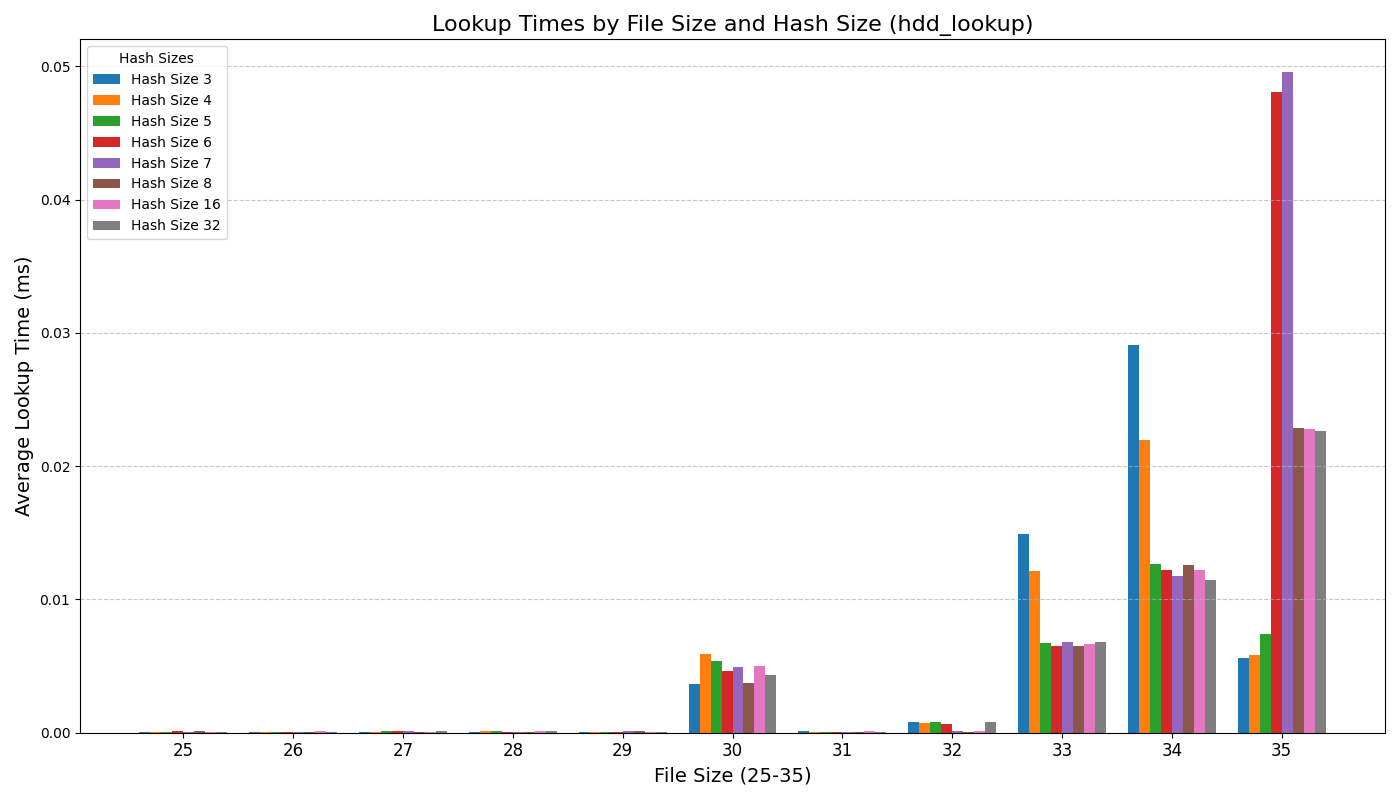
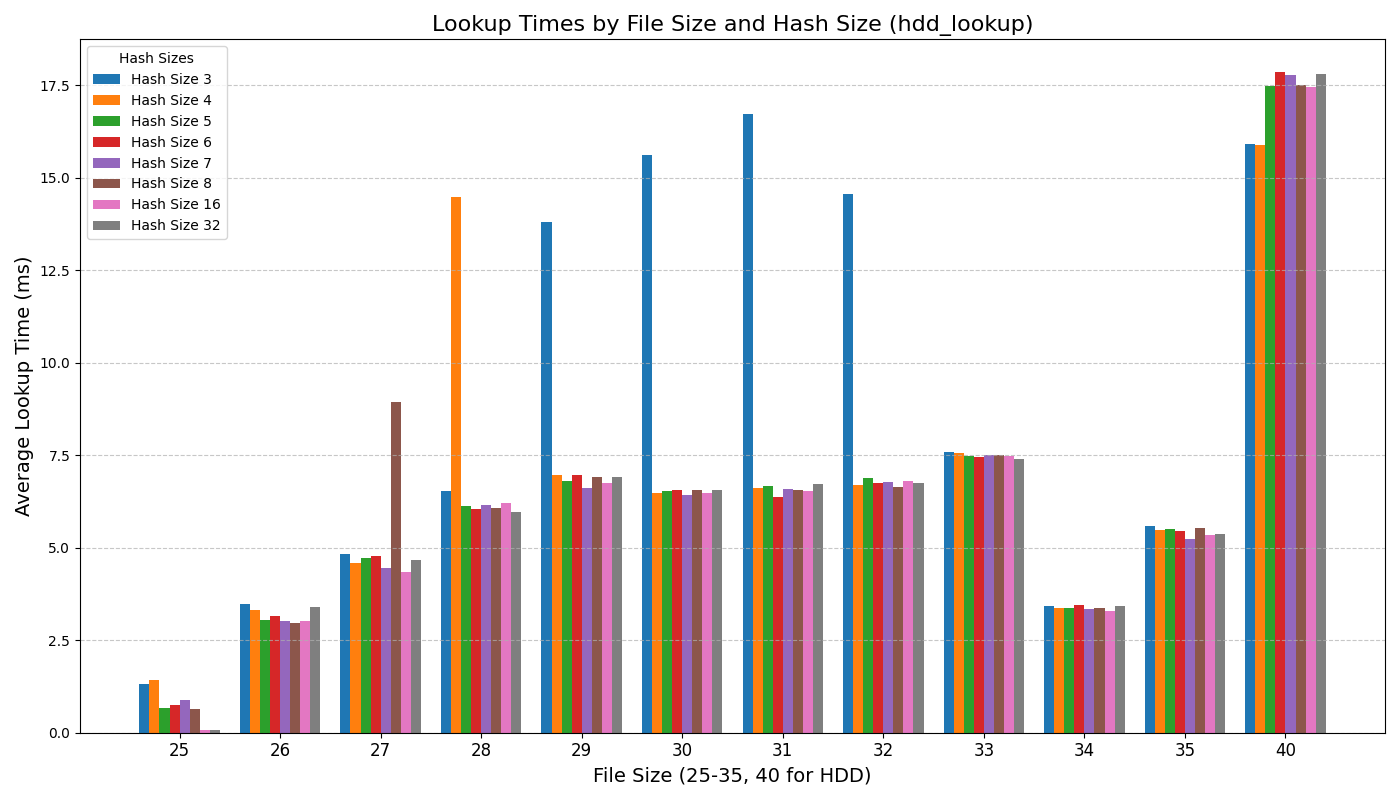
script to graph and graphs

diff --git a/graph_lookup_times.py b/graph_lookup_times.py
@@ -5,33 +5,55 @@ import numpy as np
 
 # Define directories and files
 folders = ['hdd_lookup', 'nvme_lookup']
-file_range = range(25, 36)  # lookup_times#.csv where # ranges from 25 to 35
+file_range_hdd = range(25, 36)  # For HDD, lookup_times#.csv where # ranges from 25 to 35
+file_range_nvme = range(25, 36)  # For NVMe, lookup_times#.csv where # ranges from 25 to 35
+file_range_hdd_extra = [40]  # Only for HDD, we need to include file 40
 hash_sizes = [3, 4, 5, 6, 7, 8, 16, 32]
 
 # Dictionary to hold all data
-data = {folder: {file_id: {size: [] for size in hash_sizes} for file_id in file_range} for folder in folders}
+data = {folder: {} for folder in folders}
 
 # Read data from CSV files
 for folder in folders:
+    # Determine correct file range based on the folder
+    if folder == 'hdd_lookup':
+        file_range = list(file_range_hdd) + file_range_hdd_extra  # Include file 40 for HDD
+    else:
+        file_range = file_range_nvme  # Use 25-35 for NVMe
+    
     for i in file_range:
         file_path = os.path.join(folder, f"lookup_times{i}.csv")
+        if not os.path.exists(file_path):  # Skip if file doesn't exist
+            print(f"File {file_path} not found. Skipping.")
+            continue  # Skip to the next file
+        
         try:
             # Read CSV without headers
             df = pd.read_csv(file_path, header=None)
             df.columns = ['hash_size', 'lookup_time']  # Assign column names explicitly
             
+            # Convert lookup time from seconds to milliseconds
+            df['lookup_time'] = df['lookup_time'] * 1000  # Conversion to ms
+            
+            # Initialize a dictionary for this file if not already done
+            data[folder][i] = {size: [] for size in hash_sizes}
+            
             for size in hash_sizes:
                 # Filter rows for the current hash size
                 size_data = df[df['hash_size'] == size]['lookup_time']
                 data[folder][i][size].extend(size_data)
-        except FileNotFoundError:
-            print(f"File {file_path} not found. Skipping.")
         except Exception as e:
             print(f"Error reading {file_path}: {e}")
 
 # Plot the data
 for folder in folders:
     plt.figure(figsize=(14, 8))
+    
+    # Determine correct file range based on the folder
+    if folder == 'hdd_lookup':
+        file_range = list(file_range_hdd) + file_range_hdd_extra  # Include file 40 for HDD
+    else:
+        file_range = file_range_nvme  # Use 25-35 for NVMe
     
     # Prepare data for bar chart
     bar_width = 0.1  # Width of each bar
@@ -47,7 +69,7 @@ for folder in folders:
     
     # Customize the plot
     plt.title(f"Lookup Times by File Size and Hash Size ({folder})", fontsize=16)
-    plt.xlabel("File Size (25-35)", fontsize=14)
+    plt.xlabel("File Size (25-35, 40 for HDD)", fontsize=14)  # Updated file size range on X-axis
     plt.ylabel("Average Lookup Time (ms)", fontsize=14)
     plt.xticks(x_positions, [str(i) for i in file_range], fontsize=12)
     plt.grid(axis='y', linestyle='--', alpha=0.7)
